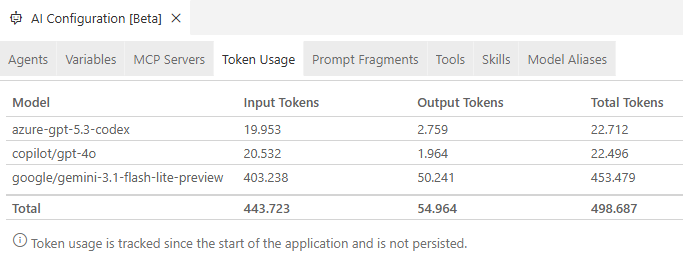
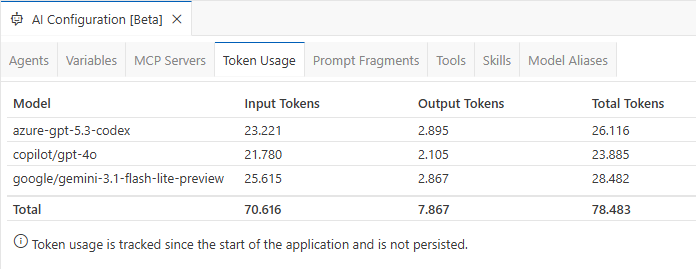
Updated theia token count with applied fix

Changed region(s): [[0.0, 0.3569, 1.0, 0.9517], [0.0, 0.119, 1.0, 0.3271], [0.0, 0.0, 0.2767, 0.119]]

diff --git a/tutorials/ai_agent_orchestration.md b/tutorials/ai_agent_orchestration.md
@@ -444,7 +444,7 @@ Theia does not yet support context window monitoring like Visual Studio Code, so
 <img src="images/theia_token_single.png"/>
 
 _**Note:**_  
-The tokens reported for the Gemini models are clearly incorrect. I double-checked the token usage in **Google AI Studio**, where I was able to verify a similar token usage compared to the GPT models (~30k tokens). I created the ticket [Token usage shows incorrect values for Gemini models](https://github.com/eclipse-theia/theia/issues/17165), so this issue will hopefully be fixed soon.
+The token counts reported for Gemini models are incorrect in Theia 1.69.0. I created the ticket [Token usage shows incorrect values for Gemini models](https://github.com/eclipse-theia/theia/issues/17165) and submitted a pull request that fixes this issue. The screenshot above shows token usage with the fix applied for a fair comparison.
 
 Token usage is not persisted and is reset when restarting the application. To get a better comparison, I restart after each example.
 
@@ -519,7 +519,7 @@ Theia does not yet support context window monitoring like Visual Studio Code, so
 <img src="images/theia_token_delegate.png"/>
 
 _**Note:**_  
-The tokens reported for the Gemini models are clearly incorrect. I double-checked the token usage in **Google AI Studio**, where I was able to verify a similar token usage compared to the GPT models (~30k tokens). I created the ticket [Token usage shows incorrect values for Gemini models](https://github.com/eclipse-theia/theia/issues/17165), so this issue will hopefully be fixed soon.
+The token counts reported for Gemini models are incorrect in Theia 1.69.0. I created the ticket [Token usage shows incorrect values for Gemini models](https://github.com/eclipse-theia/theia/issues/17165) and submitted a pull request that fixes this issue. The screenshot above shows token usage with the fix applied for a fair comparison.
 
 Interestingly, token usage for the _Delegate Pattern_ in Theia is slightly higher compared to the single-agent solution.
 It is also interesting that the _Delegate Pattern_ is not exactly the same as in Visual Studio Code via _Handoffs_. It seems that _Agent-to-Agent Delegation_ is similar to _Subagents_ in Visual Studio Code, at least based on the chat output.
@@ -609,7 +609,7 @@ Theia does not yet support context window monitoring like Visual Studio Code, so
 <img src="images/theia_token_coordinate.png"/>
 
 _**Note:**_  
-The tokens reported for the Gemini models are clearly incorrect. I double-checked the token usage in **Google AI Studio**, where I was able to verify a similar token usage compared to the GPT models (~30k tokens). I created the ticket [Token usage shows incorrect values for Gemini models](https://github.com/eclipse-theia/theia/issues/17165), so this issue will hopefully be fixed soon.
+The token counts reported for Gemini models are incorrect in Theia 1.69.0. I created the ticket [Token usage shows incorrect values for Gemini models](https://github.com/eclipse-theia/theia/issues/17165) and submitted a pull request that fixes this issue. The screenshot above shows token usage with the fix applied for a fair comparison.
 
 Interestingly, token usage for the _Coordinator and Worker Pattern_ in Theia uses fewer tokens than the _Delegate Pattern_ but still slightly more than the single-agent solution.
 
